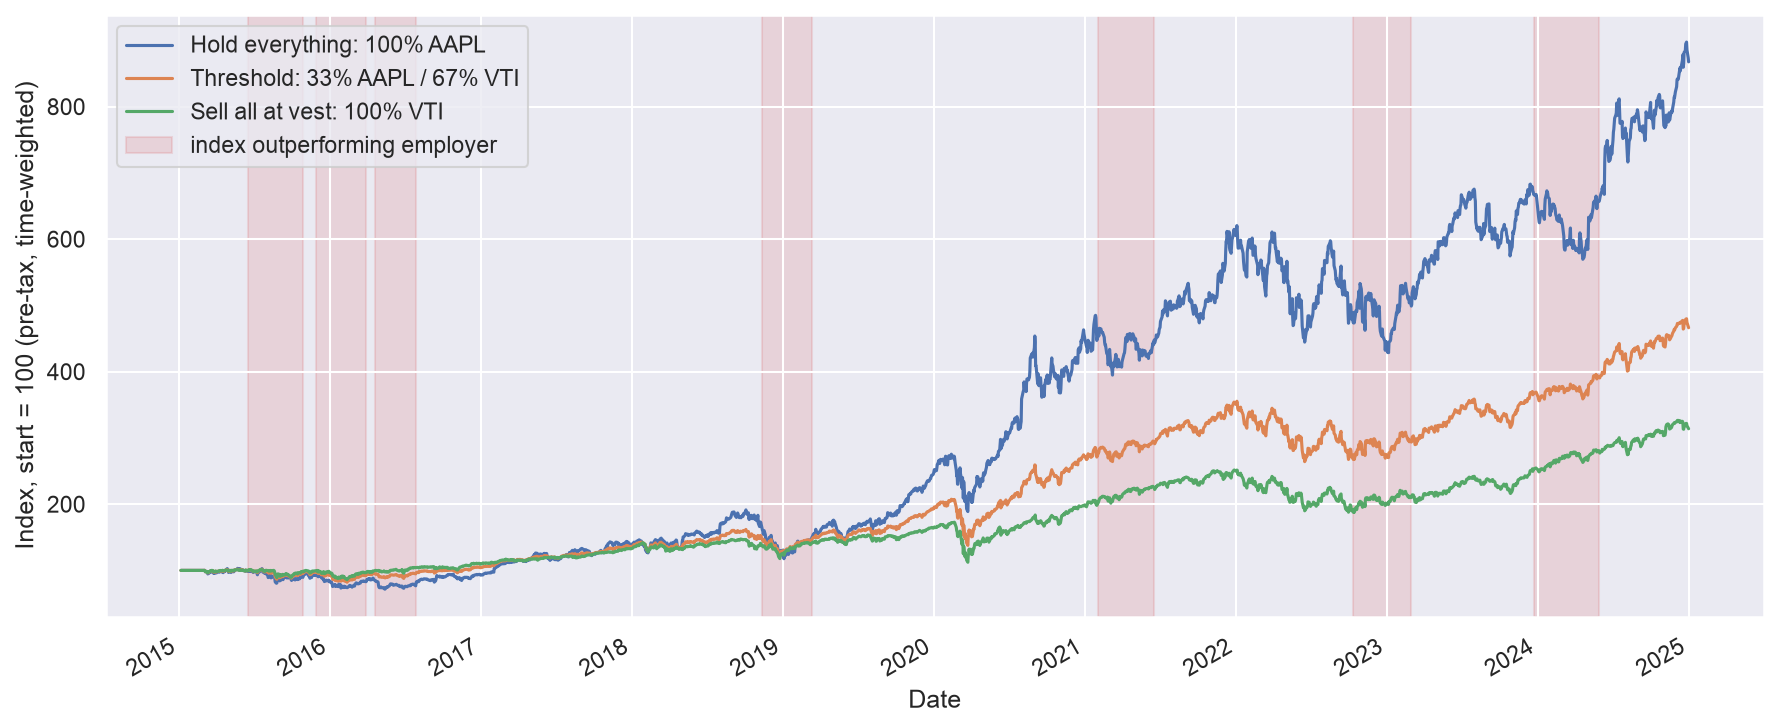
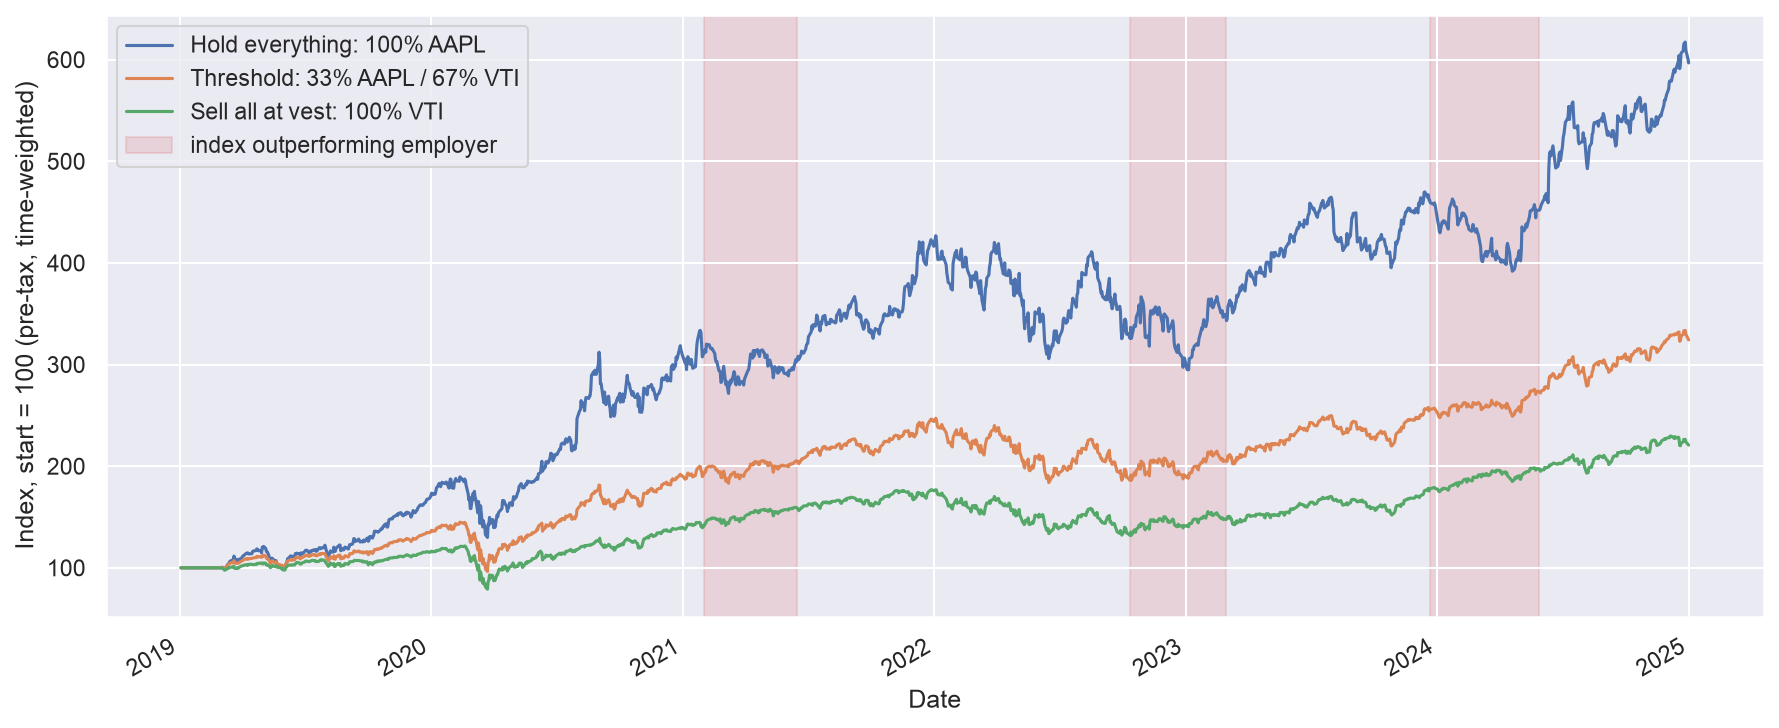
feat(notebooks): default the backtest window to 2019–2024
Ten years is longer than needed; most of the action in the charts is
post-2019. Shift the start default from 2015 to 2019 (end unchanged),
update the README prose/example and the default-window tests, and
regenerate the README tables and growth charts.

diff --git a/tests/test_app.py b/tests/test_app.py
@@ -21,7 +21,7 @@ def test_build_configs_maps_default_controls():
     assert strategy_cfg.employer_ticker == "AAPL"
     assert strategy_cfg.threshold == 0.33  # 33% slider -> fraction
     first_grant = grant_cfg.nominal_grant_dates(backtest_cfg.start, backtest_cfg.end)[0]
-    assert first_grant.year == 2011  # 2015 window, backfilled by 4 vesting years
+    assert first_grant.year == 2015  # 2019 window, backfilled by 4 vesting years
     assert basis == "pre-tax"
 
 
@@ -37,7 +37,7 @@ def test_build_configs_backfill_off_anchors_grants_at_window_start():
     _, grant_cfg, backtest_cfg, _ = build_configs(elements)
 
     first_grant = grant_cfg.nominal_grant_dates(backtest_cfg.start, backtest_cfg.end)[0]
-    assert first_grant.year == 2015
+    assert first_grant.year == 2019
 
 
 def test_build_configs_after_tax_toggle_sets_basis():

diff --git a/src/rsu_app/controls.py b/src/rsu_app/controls.py
@@ -29,7 +29,7 @@ def build_backtest_controls() -> tuple[mo.ui.dictionary, mo.Html]:
         {
             "employer": mo.ui.text(value="AAPL", label="Employer ticker"),
             "index": mo.ui.text(value=StrategyConfig.index_ticker, label="Index ticker"),
-            "start": mo.ui.text(value="2015-01-01", label="Start date"),
+            "start": mo.ui.text(value="2019-01-01", label="Start date"),
             "end": mo.ui.text(value="2024-12-31", label="End date"),
             "annual_dollars": mo.ui.number(
                 value=100_000, start=0, stop=1_000_000, step=25_000, label="First-year grant $"

diff --git a/README.md b/README.md
@@ -62,7 +62,7 @@ The output of the backtest compares three strategies:
 
 ## Example outputs
 
-Both runs below use the notebook defaults — VTI as the diversified index, 2015–2024 date range, the
+Both runs below use the notebook defaults — VTI as the diversified index, 2019–2024 date range, the
 same nominal grant values and tax rates — and differ only in the employer stock. In the figures,
 each line is the time-weighted return under one strategy, and the shaded bands mark stretches where
 the index out-returned the employer.
@@ -83,15 +83,15 @@ fair head-to-head number because every strategy receives the identical grant str
 
 | Metric | Hold everything | Threshold 33% | Sell all at vest |
 | --- | ---: | ---: | ---: |
-| Final portfolio value | $5,013,119 | $3,028,989 | $2,361,184 |
-| Liquidation value (net of tax) | $3,935,447 | $2,515,807 | $2,031,562 |
-| Vested contributions (net of tax) | $1,196,107 | $1,196,107 | $1,196,107 |
-| Taxes paid | $939,798 | $971,100 | $939,798 |
-| Annualized return (TWR) | 24.17% | 16.68% | 12.14% |
-| Annualized volatility | 28.21% | 19.96% | 17.90% |
-| Max drawdown | -38.52% | -33.58% | -35.00% |
-| Sharpe ratio | 0.84 | 0.77 | 0.62 |
-| End employer % | 100.0% | 37.7% | 0.0% |
+| Final portfolio value | $1,705,043 | $1,282,337 | $1,114,918 |
+| Liquidation value (net of tax) | $1,417,665 | $1,113,975 | $997,484 |
+| Vested contributions (net of tax) | $705,891 | $705,891 | $705,891 |
+| Taxes paid | $554,628 | $561,791 | $554,628 |
+| Annualized return (TWR) | 34.76% | 21.71% | 14.13% |
+| Annualized volatility | 30.25% | 22.40% | 20.24% |
+| Max drawdown | -31.43% | -33.46% | -35.00% |
+| Sharpe ratio | 1.07 | 0.90 | 0.66 |
+| End employer % | 100.0% | 36.7% | 0.0% |
 
 <!-- END summary:aapl -->
 
@@ -109,15 +109,15 @@ came out ahead of full diversification on both raw and risk-adjusted return.
 
 | Metric | Hold everything | Threshold 33% | Sell all at vest |
 | --- | ---: | ---: | ---: |
-| Final portfolio value | $422,481 | $1,139,916 | $1,685,399 |
-| Liquidation value (net of tax) | $422,481 | $980,578 | $1,429,610 |
-| Vested contributions (net of tax) | $780,528 | $780,528 | $780,528 |
-| Taxes paid | $613,272 | $616,946 | $613,272 |
-| Annualized return (TWR) | -2.69% | 7.84% | 12.14% |
-| Annualized volatility | 35.53% | 20.99% | 17.90% |
-| Max drawdown | -69.57% | -33.96% | -35.00% |
-| Sharpe ratio | 0.05 | 0.37 | 0.62 |
-| End employer % | 100.0% | 18.8% | 0.0% |
+| Final portfolio value | $173,390 | $466,358 | $652,068 |
+| Liquidation value (net of tax) | $173,390 | $418,165 | $576,499 |
+| Vested contributions (net of tax) | $389,578 | $389,578 | $389,578 |
+| Taxes paid | $306,097 | $306,159 | $306,097 |
+| Annualized return (TWR) | -13.00% | 6.63% | 14.13% |
+| Annualized volatility | 40.84% | 23.84% | 20.24% |
+| Max drawdown | -69.57% | -35.03% | -35.00% |
+| Sharpe ratio | -0.18 | 0.31 | 0.66 |
+| End employer % | 100.0% | 16.1% | 0.0% |
 
 <!-- END summary:intc -->
 
@@ -163,7 +163,7 @@ from rsu_rebalancing import (
 
 strategy = StrategyConfig(employer_ticker="AAPL", index_ticker="VTI", threshold=0.33)
 grants = GrantConfig(grant_dollars=100_000)
-backtest = BacktestConfig(start="2015-01-01", end="2024-12-31")
+backtest = BacktestConfig(start="2019-01-01", end="2024-12-31")
 
 results = run_backtest(strategy, grants, backtest)
 print(